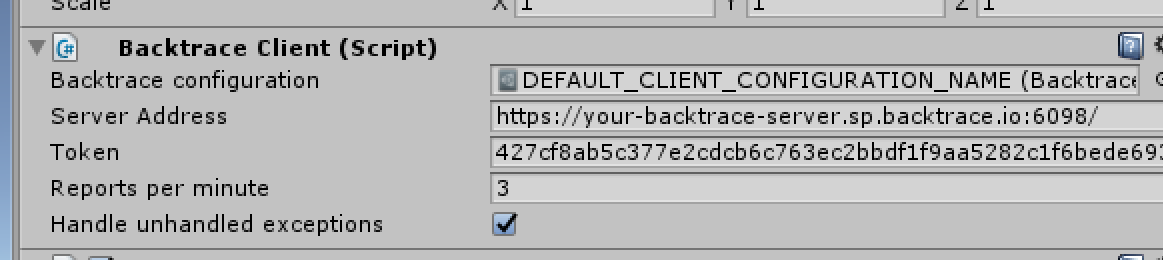
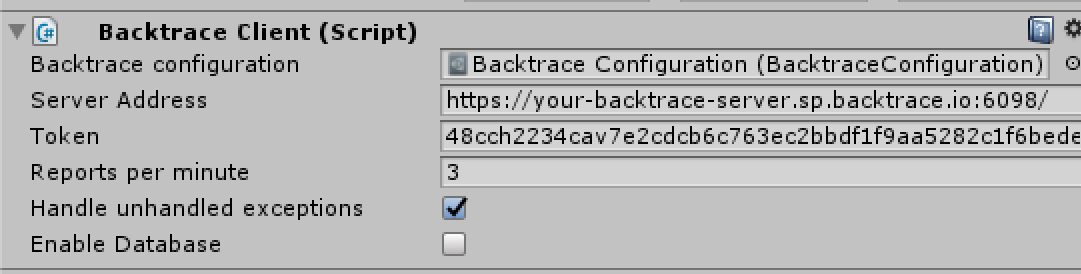
Readme update

Changed region(s): [[0.0, 0.0, 1.0, 1.0]]

diff --git a/README.md b/README.md
@@ -46,7 +46,7 @@ List of steps necessary to setup full Backtrace Unity integration.
 * Select `Backtrace Client` from insperctor search box,
 * `Backtrace Client` configuration window now waiting for configuration asset.
 ![Backtrace configuration window](./images/unity-basic-configuration.PNG)
-* Right click on empty space in Unity workspace and select from the menu box `Backtrace > Backtrace Client`. This option generate new empty asset file in your solution. You can drag and drop generated asset file into Backtrace Configuration window.
+* Right click on empty space in Unity workspace and select from the menu box `Backtrace > Configuration`. This option generate new empty asset file in your solution. You can drag and drop generated asset file into Backtrace Client configuration window.
 ![Backtrace menu dialog box](./images/dialog-box.PNG)
 * Provide valid Backtrace client configuration and start using library!
 ![Full Backtrace configuration](./images/client-setup.PNG)
@@ -70,12 +70,8 @@ tokens if the project name is available.
 ## Database support configuration
 Backtrace Unity integration allows to store on hard drive offline reports. `BacktraceDatabase` provide methods to save reports when you lost a connection. 
 
-To create `BacktraceDatabase` configuraiton:
-* Select scene object and add new component in inspector window,
-* Select `Backtrace Database` from insperctor search box,
-* `Backtrace Database` configuration window now waiting for configuration asset.
-* Right click on your project work space and select from Backtrace option in Menu `Backtrace Database`. This option will generate empty `Backtrace database` asset in current work space directory,
-* Drag and drop generated asseet into `Backtrace Database Window`,
+To setup `BacktraceDatabase` configuraiton:
+* Select `Enable Database` checkbox in `Backtrace Client` configuration window,
 * Provide valid Backtrace database configuration and store offline reports in your game!
 ![Full Backtrace database configuration](./images/database-setup.PNG)
 
